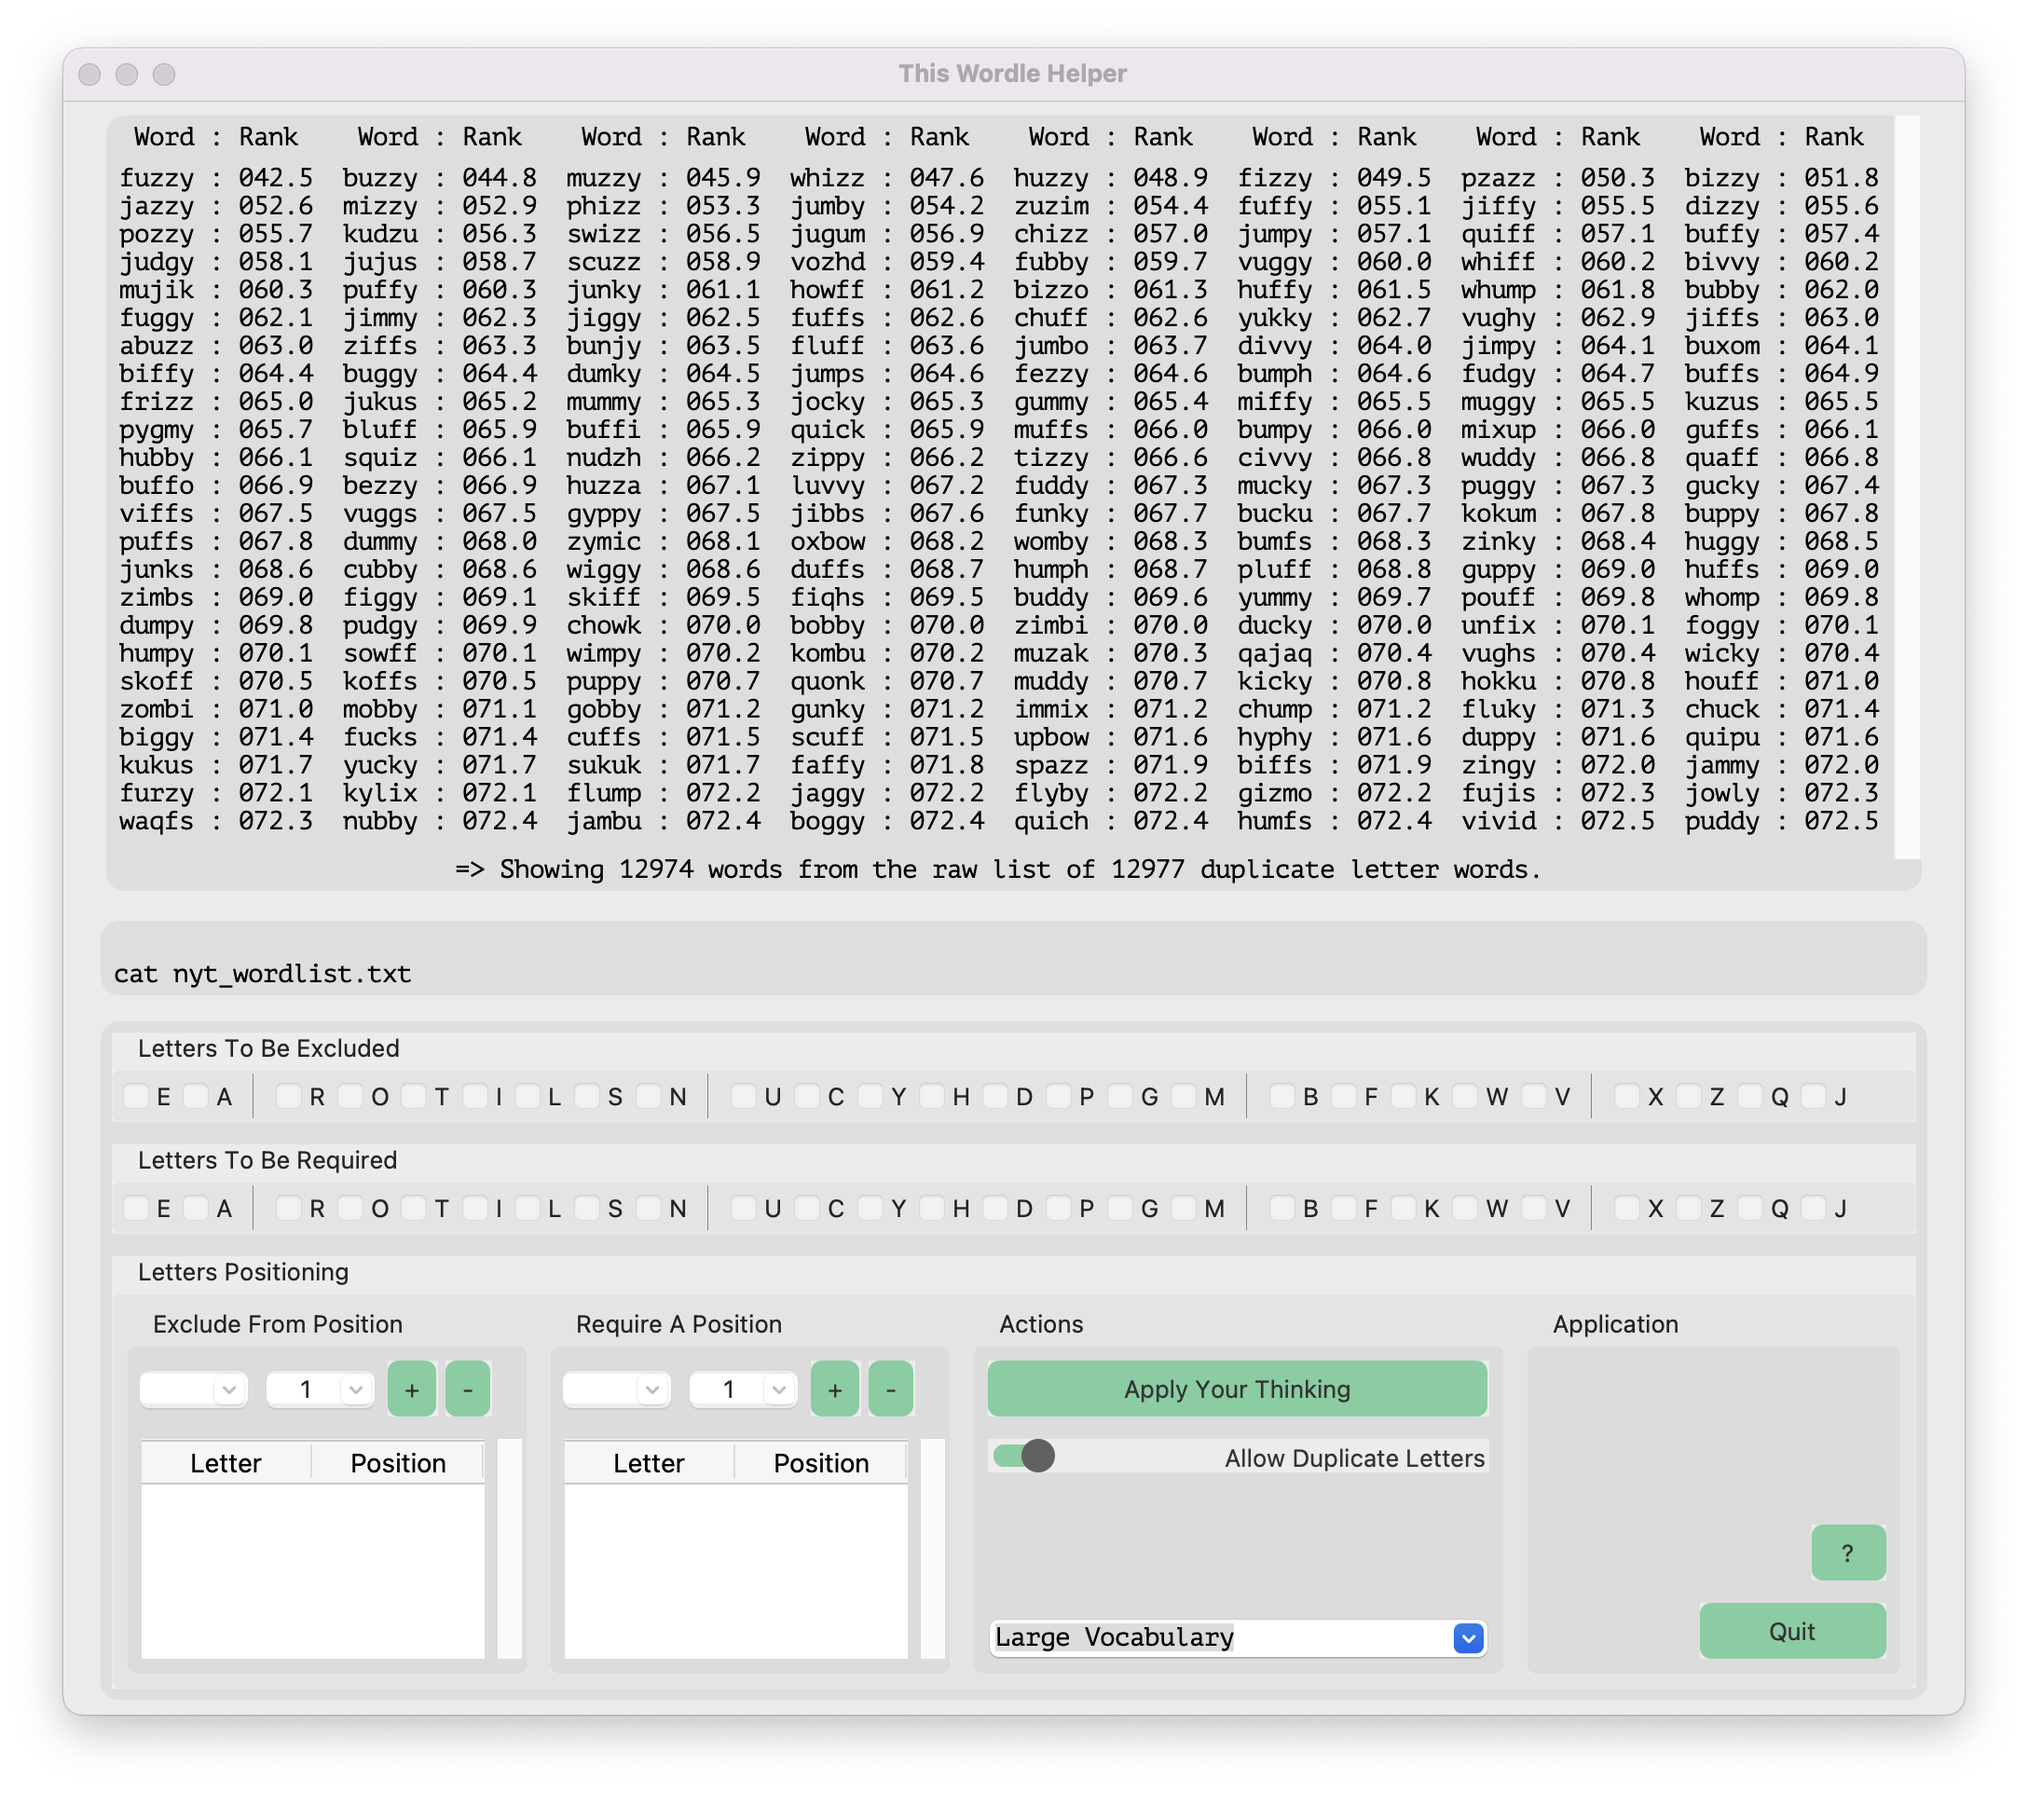
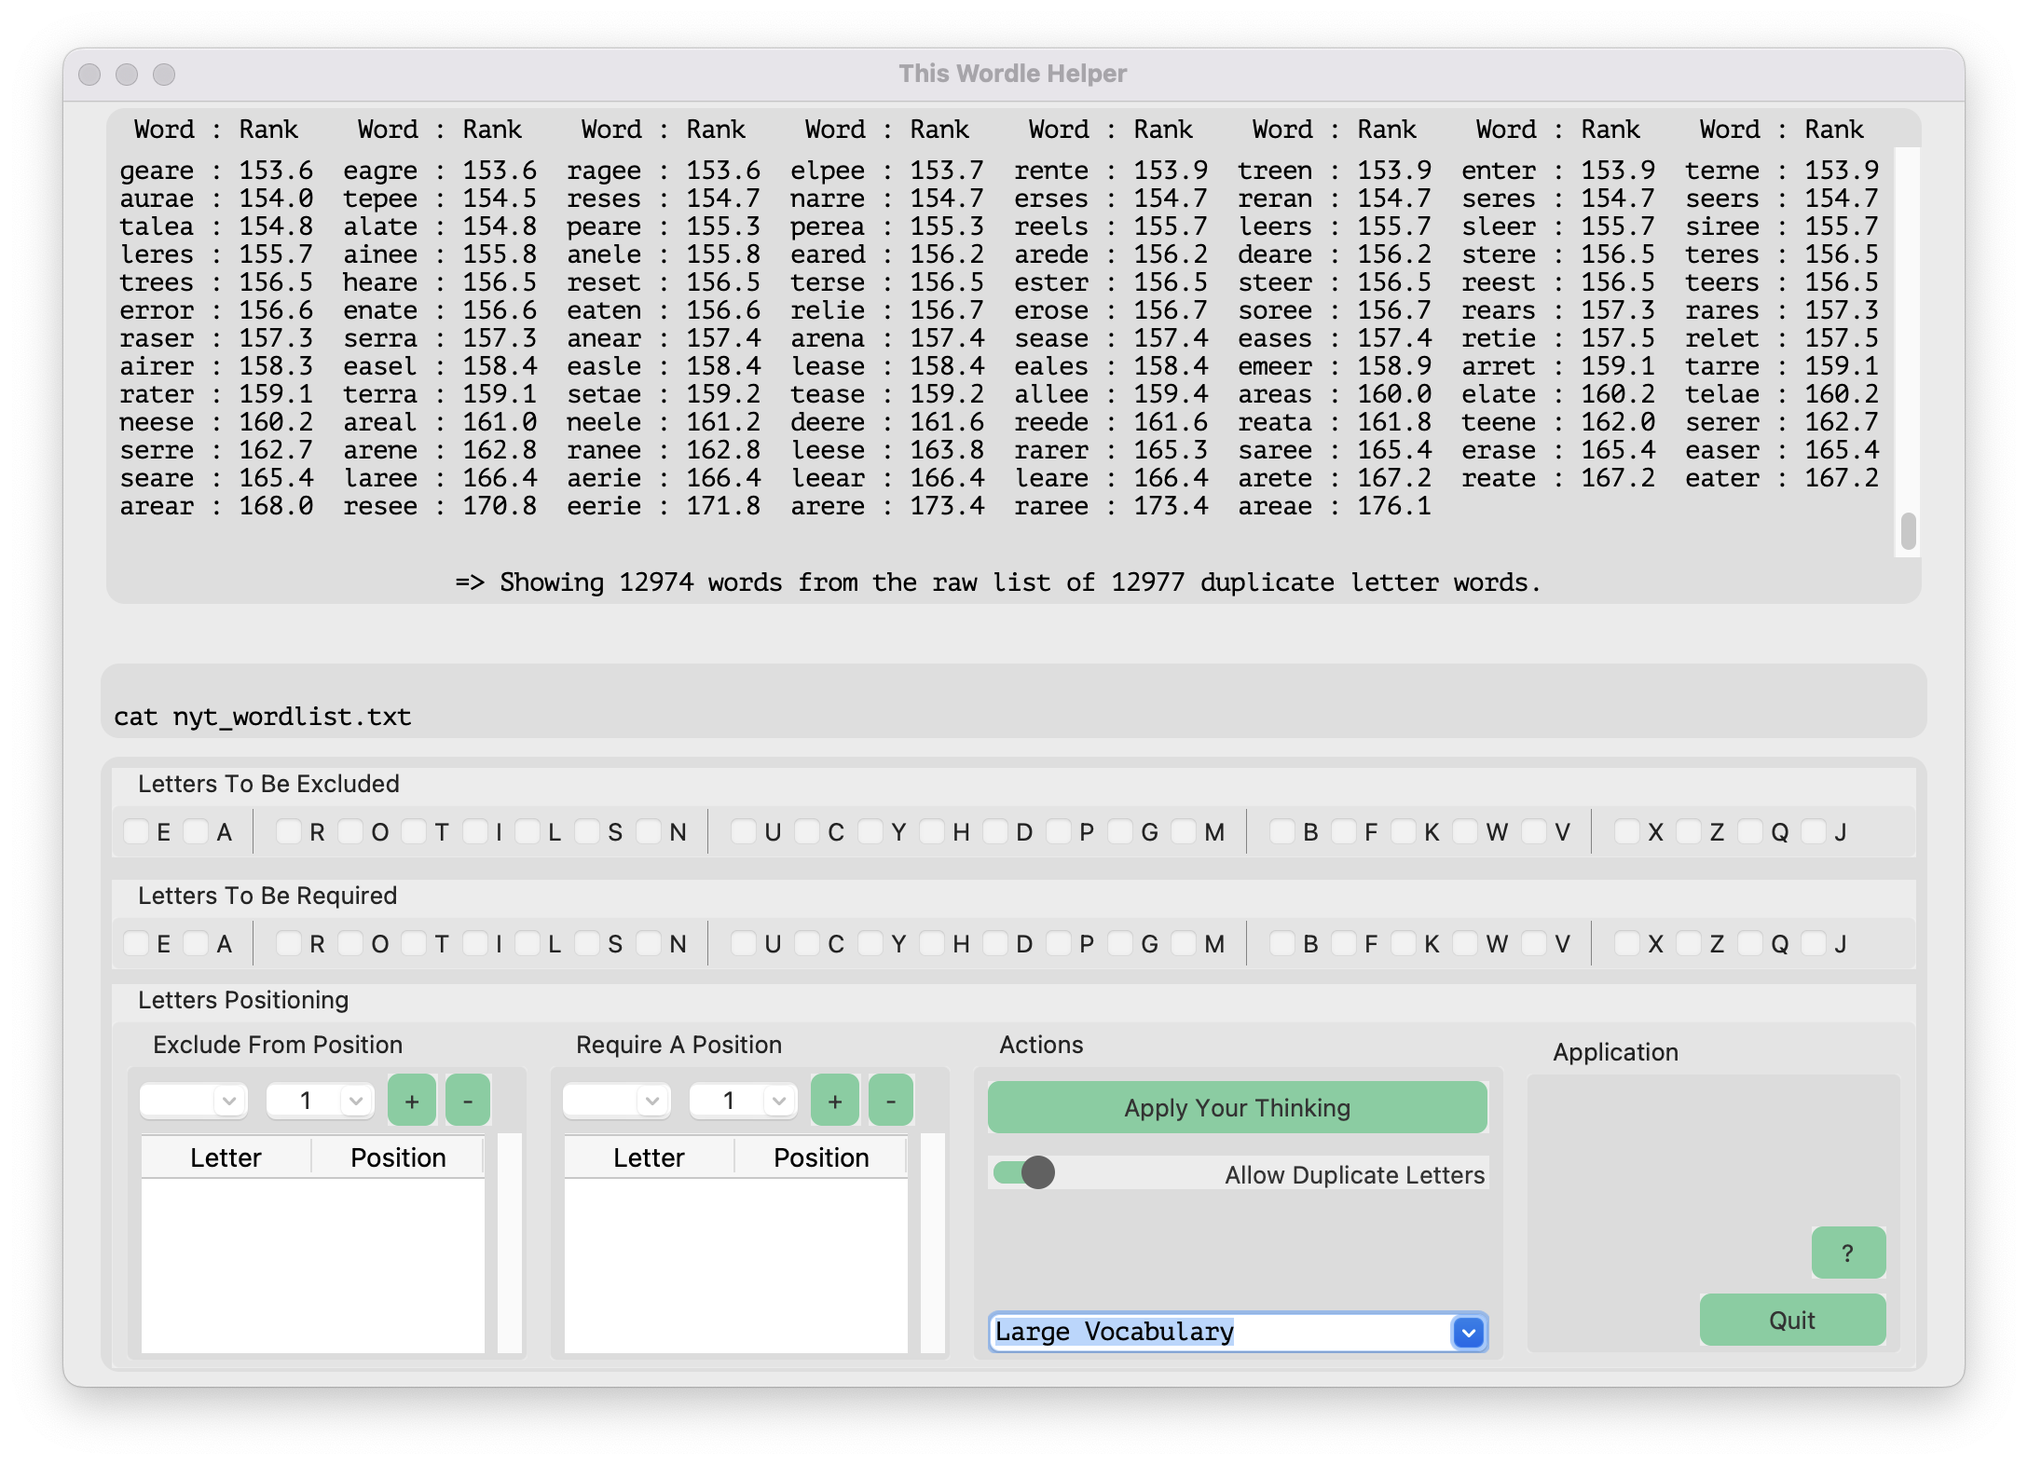
fix scrollbar, decrease screen footprint

diff --git a/pywt.py b/pywt.py
@@ -97,8 +97,10 @@ class Pywordlemainwindow(ctk.CTk):
     def __init__(self):
         super().__init__()
         self.title("This Wordle Helper")
+        # print(self.winfo_screenheight())
+        # print(self.winfo_screenwidth())
         w_width = 1020
-        w_height = 900
+        w_height = 690 # to do, set according to screen height
         pos_x = int(self.winfo_screenwidth() / 2 - w_width / 2)
         pos_y = int(self.winfo_screenheight() / 3 - w_height / 2)
         self.geometry("{}x{}+{}+{}".format(w_width, w_height, pos_x, pos_y))
@@ -250,14 +252,14 @@ class Pywordlemainwindow(ctk.CTk):
             if len(itms) > 0:
                 grep_requireall = args
             return grep_requireall
-
+        # upper frame showing the words
         self.result_frame = ctk.CTkFrame(self,
                                          width=900,
-                                         height=200,
+                                         height=100,
                                          corner_radius=10,
                                          borderwidth=0)
-        self.result_frame.pack(padx=20, pady=8)
-
+        self.result_frame.pack(padx=20, pady=4)
+        # the header line above the word list
         lb_result_hd = tk.Label(self.result_frame,
                                 text=str_wrd_list_hrd(),
                                 relief='sunken',
@@ -266,17 +268,20 @@ class Pywordlemainwindow(ctk.CTk):
                                 highlightthickness=0)
         lb_result_hd.grid(row=0, column=0, columnspan=4, sticky='ew', padx=6, pady=2)
         lb_result_hd.configure(font=font_tuple)
-
+        # the word list resulting from grep on the main wordlist
         tx_result = tk.Text(self.result_frame,
                             wrap='word',
                             background='#dedede',
                             borderwidth=0,
                             highlightthickness=0)
         tx_result.grid(row=1, column=0, columnspan=4, sticky='ew', padx=6, pady=4)
+        tx_result.configure(height=14) # to do, set according to screen height
         tx_result.configure(font=font_tuple)
-
-        tx_results_scroll_bar = ttk.Scrollbar(self.result_frame, orient='vertical', command=tx_result.yview)
-        tx_results_scroll_bar.grid(row=0, rowspan=3, column=5, sticky='ns')
+        # scrollbar for wordlist
+        tx_results_sb = ttk.Scrollbar(self.result_frame, orient='vertical')
+        tx_results_sb.grid(row=1, column=5, sticky='ens')
+        tx_result.config(yscrollcommand=tx_results_sb.set)
+        tx_results_sb.config(command=tx_result.yview)
 
         lb_status = tk.Label(self.result_frame,
                              textvariable=self.status,
@@ -320,7 +325,7 @@ class Pywordlemainwindow(ctk.CTk):
                                                height=100,
                                                text='Letters Positioning',
                                                )
-        self.criteria_frame_p.pack(side=tk.BOTTOM, fill=tk.X, padx=6, pady=6)
+        self.criteria_frame_p.pack(side=tk.BOTTOM, fill=tk.X, padx=6, pady=2)
 
         # letter position frame exclude - uses pack
         self.criteria_frame_px = ttk.LabelFrame(self.criteria_frame_p,
@@ -328,7 +333,7 @@ class Pywordlemainwindow(ctk.CTk):
                                                 height=100,
                                                 text='Exclude From Position',
                                                 )
-        self.criteria_frame_px.pack(side=tk.LEFT, fill=tk.X, padx=6, pady=6)
+        self.criteria_frame_px.pack(side=tk.LEFT, fill=tk.X, padx=6, pady=2)
 
         # letter position frame require- uses pack
         self.criteria_frame_pr = ttk.LabelFrame(self.criteria_frame_p,
@@ -336,7 +341,7 @@ class Pywordlemainwindow(ctk.CTk):
                                                 height=100,
                                                 text='Require A Position',
                                                 )
-        self.criteria_frame_pr.pack(side=tk.LEFT, fill=tk.X, padx=6, pady=6)
+        self.criteria_frame_pr.pack(side=tk.LEFT, fill=tk.X, padx=6, pady=2)
 
         # actions frame require- uses pack
         self.actions_frame = ttk.LabelFrame(self.criteria_frame_p,
@@ -344,7 +349,7 @@ class Pywordlemainwindow(ctk.CTk):
                                             height=100,
                                             text='Actions',
                                             )
-        self.actions_frame.pack(side=tk.LEFT, fill=tk.BOTH, padx=6, pady=6, expand=True)
+        self.actions_frame.pack(side=tk.LEFT, fill=tk.BOTH, padx=6, pady=2, expand=True)
 
         # =======  START ============ exclude from position controls
         self.pos_px_l = tk.StringVar()
@@ -356,7 +361,7 @@ class Pywordlemainwindow(ctk.CTk):
                                        justify=tk.CENTER,
                                        textvariable=self.pos_px_l
                                        )
-        self.combo_px_l.grid(row=0, column=0, padx=4, pady=6, sticky='w')
+        self.combo_px_l.grid(row=0, column=0, padx=4, pady=2, sticky='w')
         self.combo_px_l.current(0)
         # self.combo_px_l.configure(font = font_tuple)
 
@@ -367,27 +372,27 @@ class Pywordlemainwindow(ctk.CTk):
                                        justify=tk.CENTER,
                                        textvariable=self.pos_px_p
                                        )
-        self.combo_px_p.grid(row=0, column=1, padx=4, pady=6, sticky='w')
+        self.combo_px_p.grid(row=0, column=1, padx=4, pady=2, sticky='w')
         self.combo_px_p.current(0)
 
         self.bt_px_add = ctk.CTkButton(self.criteria_frame_px,
                                        text="+", width=20,
                                        command=add_x_pos
                                        )
-        self.bt_px_add.grid(row=0, column=2, padx=2, pady=6, sticky='ew')
+        self.bt_px_add.grid(row=0, column=2, padx=2, pady=2, sticky='ew')
 
         self.bt_px_rem = ctk.CTkButton(self.criteria_frame_px,
                                        text="-", width=20,
                                        command=remove_x_pos
                                        )
-        self.bt_px_rem.grid(row=0, column=3, padx=2, pady=6, sticky='ew')
+        self.bt_px_rem.grid(row=0, column=3, padx=2, pady=2, sticky='ew')
 
         # ======  exclude position treeview
         self.treeview_px = ttk.Treeview(self.criteria_frame_px, style='position.ttk.Treeview')
         self.treeview_px.configure(columns=('1', '2'),
                                    show='headings',
                                    height=5)
-        self.treeview_px.grid(row=1, column=0, columnspan=4, padx=6, pady=6, sticky='ew')
+        self.treeview_px.grid(row=1, column=0, columnspan=4, padx=6, pady=2, sticky='ew')
         ttk.Style().configure('Treeview', relief='raised')
         self.treeview_px.heading(1, text='Letter')
         self.treeview_px.heading(2, text='Position')
@@ -398,7 +403,7 @@ class Pywordlemainwindow(ctk.CTk):
         self.treeview_px.bind('<ButtonRelease-1>', self.x_pos_tree_view_click)
         # scrollbar for treeview
         sb = ttk.Scrollbar(self.criteria_frame_px, orient=tk.VERTICAL)
-        sb.grid(row=1, column=4, pady=6, sticky='ens')
+        sb.grid(row=1, column=4, pady=2, sticky='ens')
         self.treeview_px.config(yscrollcommand=sb.set)
         sb.config(command=self.treeview_px.yview)
         # =======  END ============ exclude from position controls
@@ -413,7 +418,7 @@ class Pywordlemainwindow(ctk.CTk):
                                        justify=tk.CENTER,
                                        textvariable=self.pos_pr_l
                                        )
-        self.combo_pr_l.grid(row=0, column=0, padx=4, pady=6, sticky='w')
+        self.combo_pr_l.grid(row=0, column=0, padx=4, pady=2, sticky='w')
         self.combo_pr_l.current(0)
         # self.combo_pr_l.configure(font = font_tuple)
 
@@ -424,20 +429,20 @@ class Pywordlemainwindow(ctk.CTk):
                                        justify=tk.CENTER,
                                        textvariable=self.pos_pr_p
                                        )
-        self.combo_pr_p.grid(row=0, column=1, padx=4, pady=6, sticky='w')
+        self.combo_pr_p.grid(row=0, column=1, padx=4, pady=2, sticky='w')
         self.combo_pr_p.current(0)
 
         self.bt_pr_add = ctk.CTkButton(self.criteria_frame_pr,
                                        text="+", width=20,
                                        command=add_r_pos
                                        )
-        self.bt_pr_add.grid(row=0, column=2, padx=2, pady=6, sticky='ew')
+        self.bt_pr_add.grid(row=0, column=2, padx=2, pady=2, sticky='ew')
 
         self.bt_pr_rem = ctk.CTkButton(self.criteria_frame_pr,
                                        text="-", width=20,
                                        command=remove_r_pos
                                        )
-        self.bt_pr_rem.grid(row=0, column=3, padx=2, pady=6, sticky='ew')
+        self.bt_pr_rem.grid(row=0, column=3, padx=2, pady=2, sticky='ew')
 
         # style='position.ttk.Treeview')
         self.treeview_pr = ttk.Treeview(self.criteria_frame_pr, style='position.ttk.Treeview')
@@ -445,7 +450,7 @@ class Pywordlemainwindow(ctk.CTk):
                                    show='headings',
                                    height=5
                                    )
-        self.treeview_pr.grid(row=1, column=0, columnspan=4, padx=6, pady=6, sticky='ew')
+        self.treeview_pr.grid(row=1, column=0, columnspan=4, padx=6, pady=2, sticky='ew')
         ttk.Style().configure('Treeview', relief='raised')
         self.treeview_pr.heading(1, text='Letter')
         self.treeview_pr.heading(2, text='Position')
@@ -456,7 +461,7 @@ class Pywordlemainwindow(ctk.CTk):
         self.treeview_pr.bind('<ButtonRelease-1>', self.r_pos_tree_view_click)
         # scrollbar for treeview
         sb = ttk.Scrollbar(self.criteria_frame_pr, orient=tk.VERTICAL)
-        sb.grid(row=1, column=4, pady=6, sticky='ens')
+        sb.grid(row=1, column=4, pady=2, sticky='ens')
         self.treeview_pr.config(yscrollcommand=sb.set)
         sb.config(command=self.treeview_pr.yview)
         # =======  END ============ require from position controls
@@ -707,7 +712,6 @@ class Pywordlemainwindow(ctk.CTk):
         def do_grep():
             """Runs a wordletool helper grep instance
             """
-
             global data_path
 
             if sw_no_dups.get() == "on":
@@ -759,11 +763,11 @@ class Pywordlemainwindow(ctk.CTk):
 
         self.allgreps_frame = ctk.CTkFrame(self,
                                            width=900,
-                                           # height=100,
+                                           height=100,
                                            corner_radius=10,
                                            borderwidth=0
                                            )
-        self.allgreps_frame.pack(side=tk.BOTTOM, fill=tk.X, padx=20, pady=6)
+        self.allgreps_frame.pack(side=tk.BOTTOM, fill=tk.X, padx=20, pady=2)
 
         lb_allgreps = tk.Label(self.allgreps_frame,
                                textvariable=self.allgreps,
@@ -785,7 +789,7 @@ class Pywordlemainwindow(ctk.CTk):
                                    state='readonly',
                                    textvariable=self.vocabulary
                                    )
-        combo_vocab.pack(side=tk.BOTTOM, padx=6, pady=6, anchor='nw', fill=tk.X)
+        combo_vocab.pack(side=tk.BOTTOM, padx=6, pady=2, anchor='nw', fill=tk.X)
         combo_vocab.current(0)
         combo_vocab.configure(font=font_tuple)
         combo_vocab.bind("<<ComboboxSelected>>", callback_do_grep)
@@ -806,7 +810,7 @@ class Pywordlemainwindow(ctk.CTk):
         self.admin_frame.pack(side=tk.LEFT, fill=tk.BOTH, padx=6, pady=6, expand=True)
 
         self.bt_Q = ctk.CTkButton(self.admin_frame, text="Quit", width=100, command=self.destroy)
-        self.bt_Q.pack(side=tk.BOTTOM, padx=6, pady=6, anchor='e')
+        self.bt_Q.pack(side=tk.BOTTOM, padx=6, pady=2, anchor='e')
 
         self.bt_help = ctk.CTkButton(self.admin_frame, text="?", width=40, command=self.show_help)
         self.bt_help.pack(side=tk.BOTTOM, padx=6, pady=6, anchor='e')
